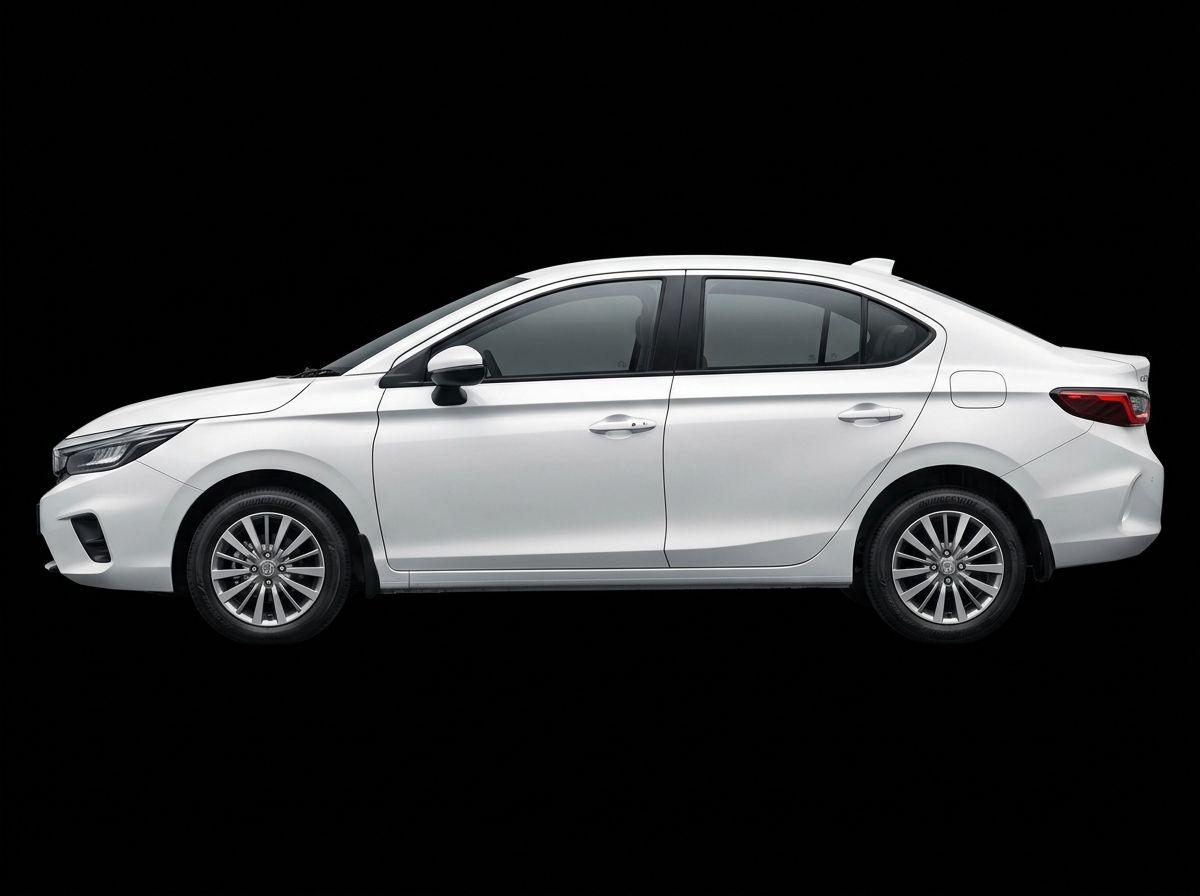
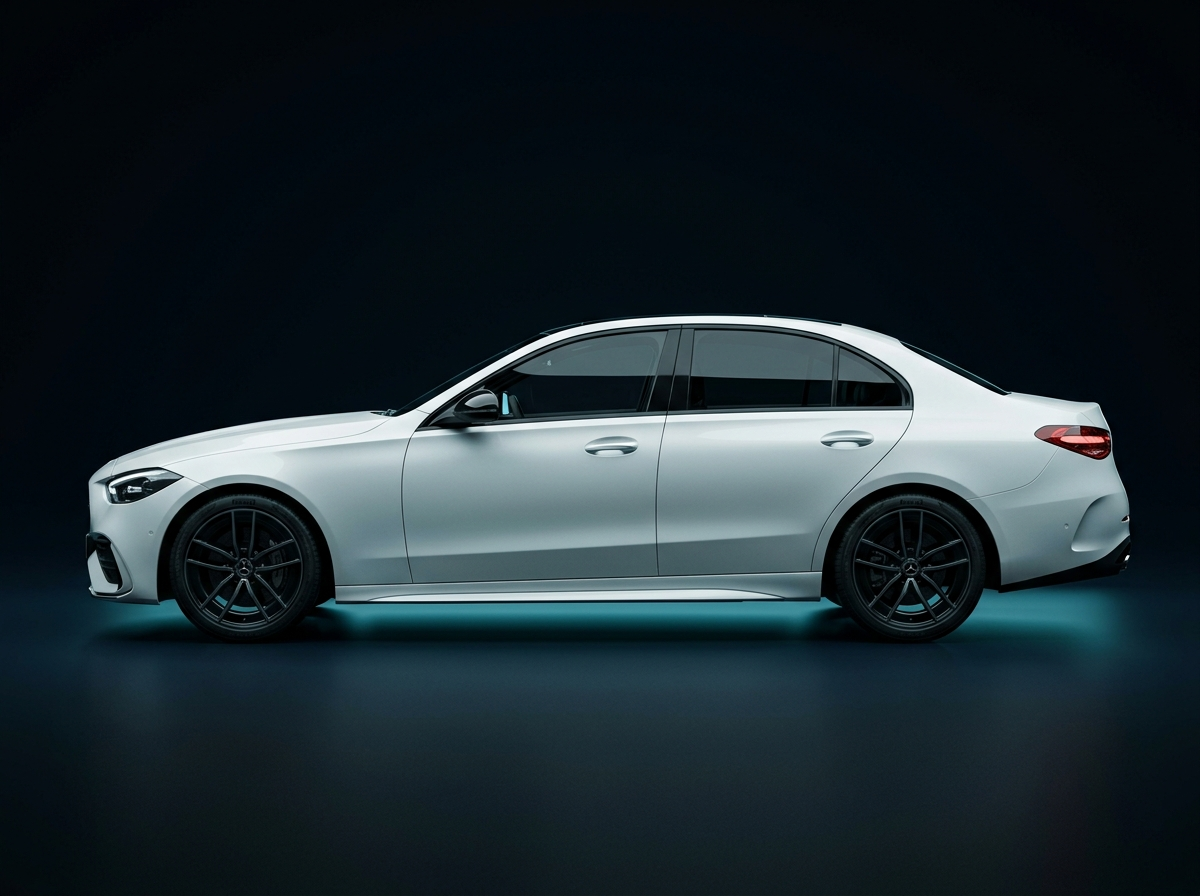
fix: Replace vehicle images with dark-themed renders matching app background #050810 with cyan ambient lighting

diff --git a/apps/user-app/app/booking/select-vehicle.tsx b/apps/user-app/app/booking/select-vehicle.tsx
@@ -650,21 +650,20 @@ const styles = StyleSheet.create({
     elevation: 6,
   },
   typeIcon: {
-    width: 64,
-    height: 48,
-    borderRadius: 14,
-    backgroundColor: 'rgba(255,255,255,0.05)',
+    width: 70,
+    height: 52,
+    borderRadius: 12,
     justifyContent: 'center',
     alignItems: 'center',
     marginBottom: 6,
     overflow: 'hidden',
   },
   typeIconSelected: {
-    backgroundColor: 'rgba(0, 207, 255, 0.08)',
+    backgroundColor: 'transparent',
   },
   typeVehicleImg: {
-    width: '90%',
-    height: '90%',
+    width: '100%',
+    height: '100%',
   },
   typeLabel: {
     fontFamily: 'Outfit_600SemiBold',
